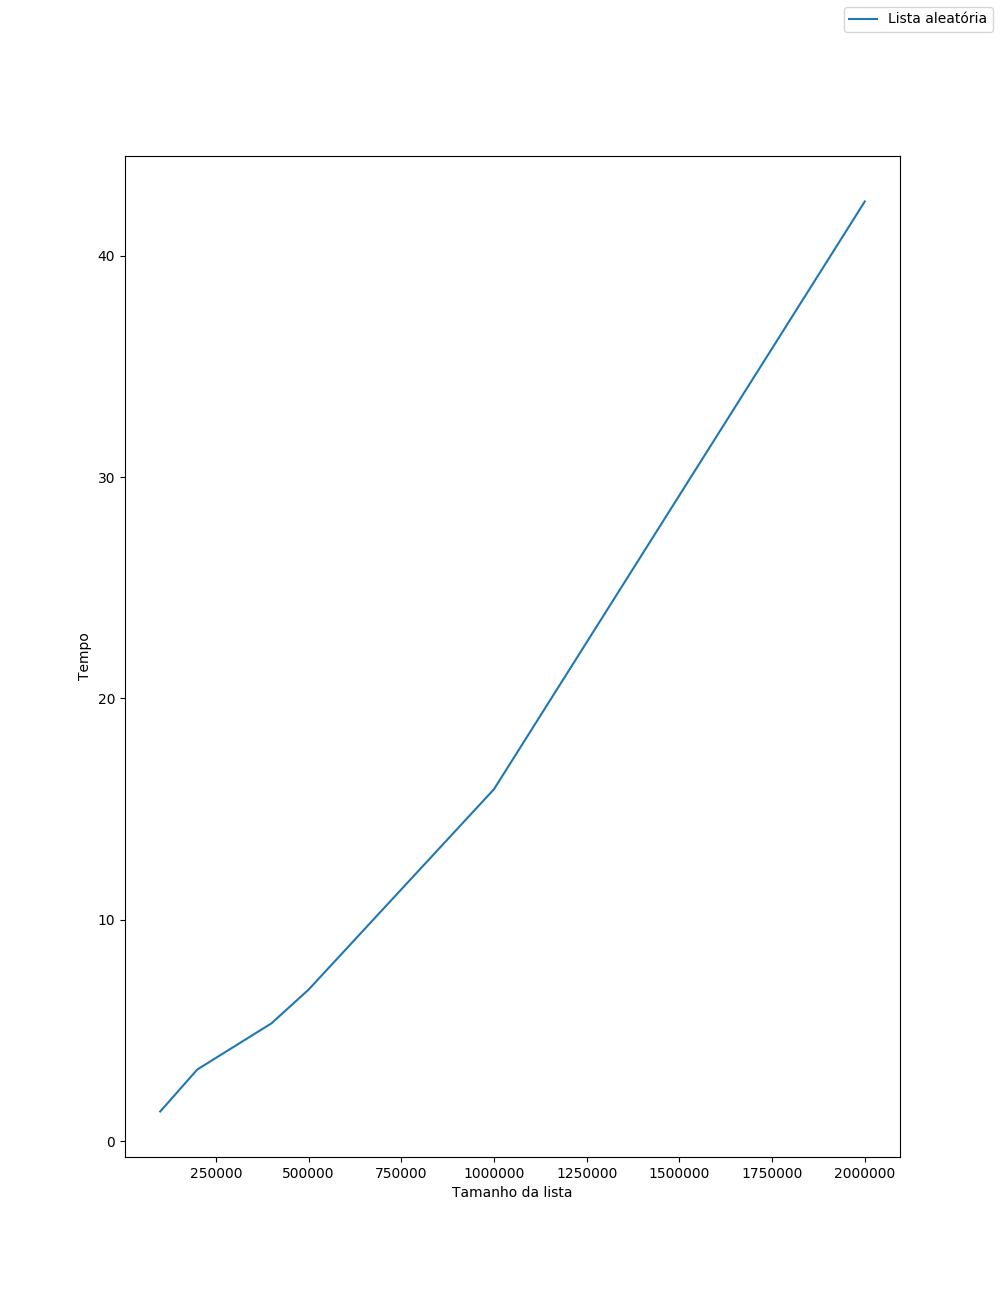
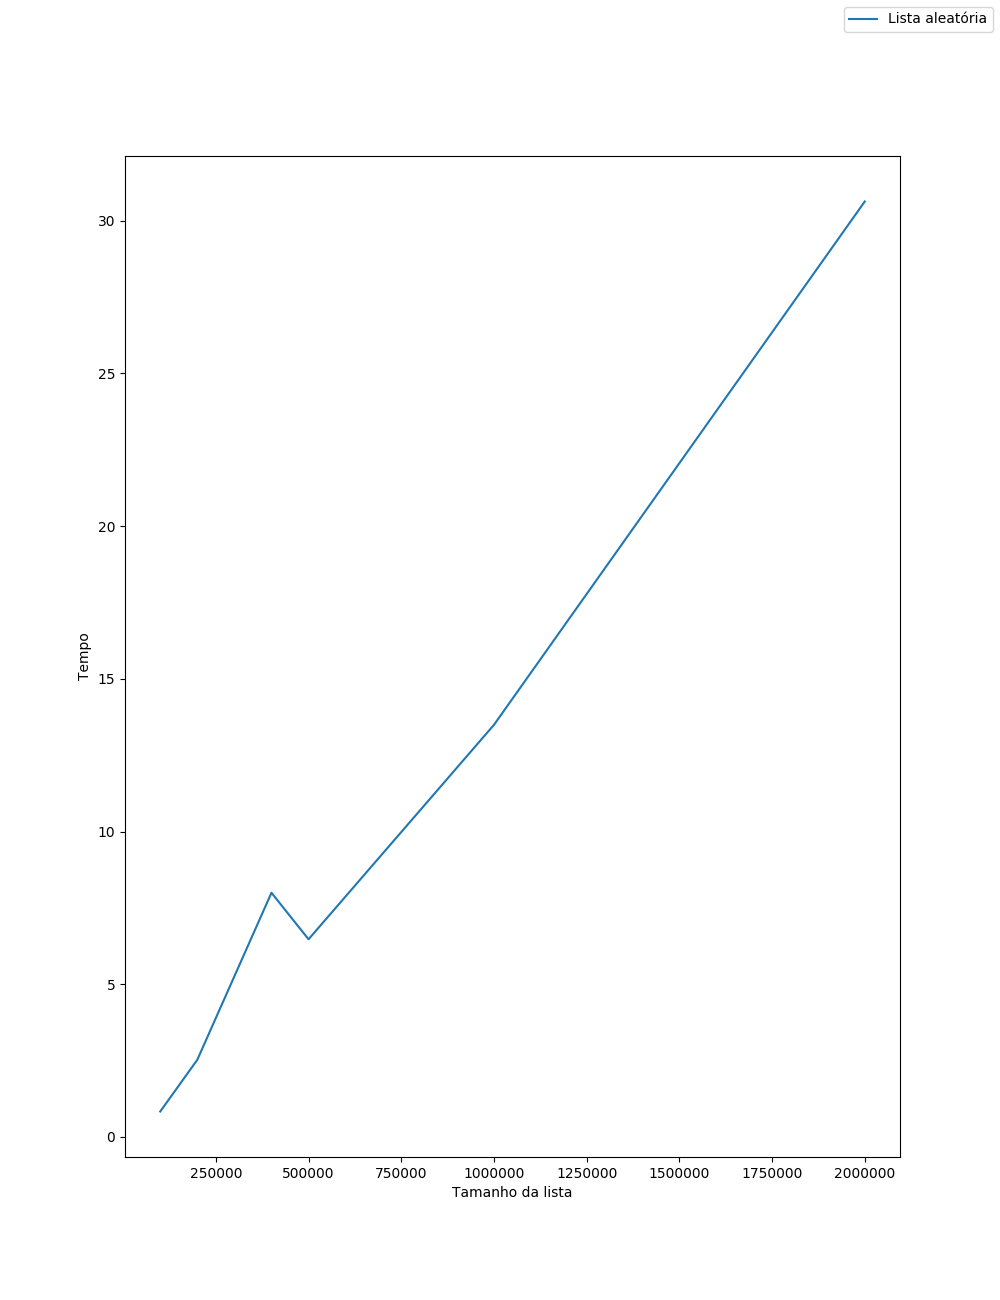
Décima primera contribuição

diff --git a/cto0111/main.py b/cto0111/main.py
@@ -19,23 +19,20 @@ def desenha_grafico(x, y, figura, xLabel="Entradas", yLabel="Saídas"):
     plt.xlabel(xLabel)
     plt.savefig(figura)
 
-def radix_sort(lista):
-    base_exp = 1
-    maior_numero = max(lista)
 
-    while maior_numero/base_exp > 0:
-        indice = len(lista) + 1
-        numero_ocorrencias = [0] * indice
+def gnome_sort(lista):
+    tamanho_lista = len(lista)
+    indice = 0
+    while indice < tamanho_lista:
+        if indice == 0:
+            indice = indice + 1
+        if lista[indice] >= lista[indice - 1]:
+            indice = indice + 1
+        else:
+            lista[indice], lista[indice - 1] = lista[indice - 1], lista[indice]
+            indice = indice - 1
+    return lista
 
-        for i in lista:
-            numero_ocorrencias[i] += 1
-
-        k = 0
-        for i in range(indice):
-            for j in range(numero_ocorrencias[i]):
-                lista[k] = i
-                k += 1
-        base_exp *= 10
 
 lista_com_tamanhos = [100000, 200000, 400000, 500000, 1000000, 2000000]
 tempo_lista_aleatoria = []
@@ -43,7 +40,6 @@ tempo_lista_aleatoria = []
 for i in range(len(lista_com_tamanhos)):
     lista_aleatoria = gera_lista_aleatoria(lista_com_tamanhos[i])
     tempo_lista_aleatoria.append(
-        timeit.timeit("radix_sort({})".format(lista_aleatoria),
-                      setup="from __main__ import radix_sort", number=1))
-
+        timeit.timeit("gnome_sort({})".format(lista_aleatoria),
+                      setup="from __main__ import gnome_sort", number=1))
 desenha_grafico(lista_com_tamanhos, tempo_lista_aleatoria, "Tempo.png", 'Tamanho da lista', 'Tempo')

diff --git a/cto0107/main.py b/cto0107/main.py
@@ -42,7 +42,7 @@ tempo_lista_aleatoria = []
 for i in range(len(lista_com_tamanhos)):
     lista_aleatoria = gera_lista_aleatoria(lista_com_tamanhos[i])
     tempo_lista_aleatoria.append(
-        timeit.timeit("count_sort({})".format(lista_aleatoria),
-                      setup="from __main__ import count_sort", number=1))
+        timeit.timeit("bucket_sort({})".format(lista_aleatoria),
+                      setup="from __main__ import bucket_sort", number=1))
 
 desenha_grafico(lista_com_tamanhos, tempo_lista_aleatoria, "Tempo.png", 'Tamanho da lista', 'Tempo')

diff --git a/cto0105/main.py b/cto0105/main.py
@@ -54,6 +54,6 @@ tempo_lista_aleatoria = []
 
 for i in range(len(lista_com_tamanhos)):
     lista_aleatoria = gera_lista_aleatoria(lista_com_tamanhos[i])
-    tempo_lista_aleatoria.append(timeit.timeit("merge_sort({})".format(lista_aleatoria), setup="from __main__ import merge_sort", number=1))
+    tempo_lista_aleatoria.append(timeit.timeit("shell_sort({})".format(lista_aleatoria), setup="from __main__ import shell_sort", number=1))
 
 desenha_grafico(lista_com_tamanhos, tempo_lista_aleatoria, "Tempo.png", 'Tamanho da lista', 'Tempo')

diff --git a/cto0110/main.py b/cto0110/main.py
@@ -70,5 +70,4 @@ for i in range(len(lista_com_tamanhos)):
         timeit.timeit("heap_sort({})".format(lista_aleatoria),
                       setup="from __main__ import heap_sort", number=2))
 
-#lista_com_tamanhos = [100000, 200000, 400000, 500000, 1000000, 2000000]
 desenha_grafico(lista_com_tamanhos, tempo_lista_aleatoria, "Tempo.png", 'Tamanho da lista', 'Tempo')
